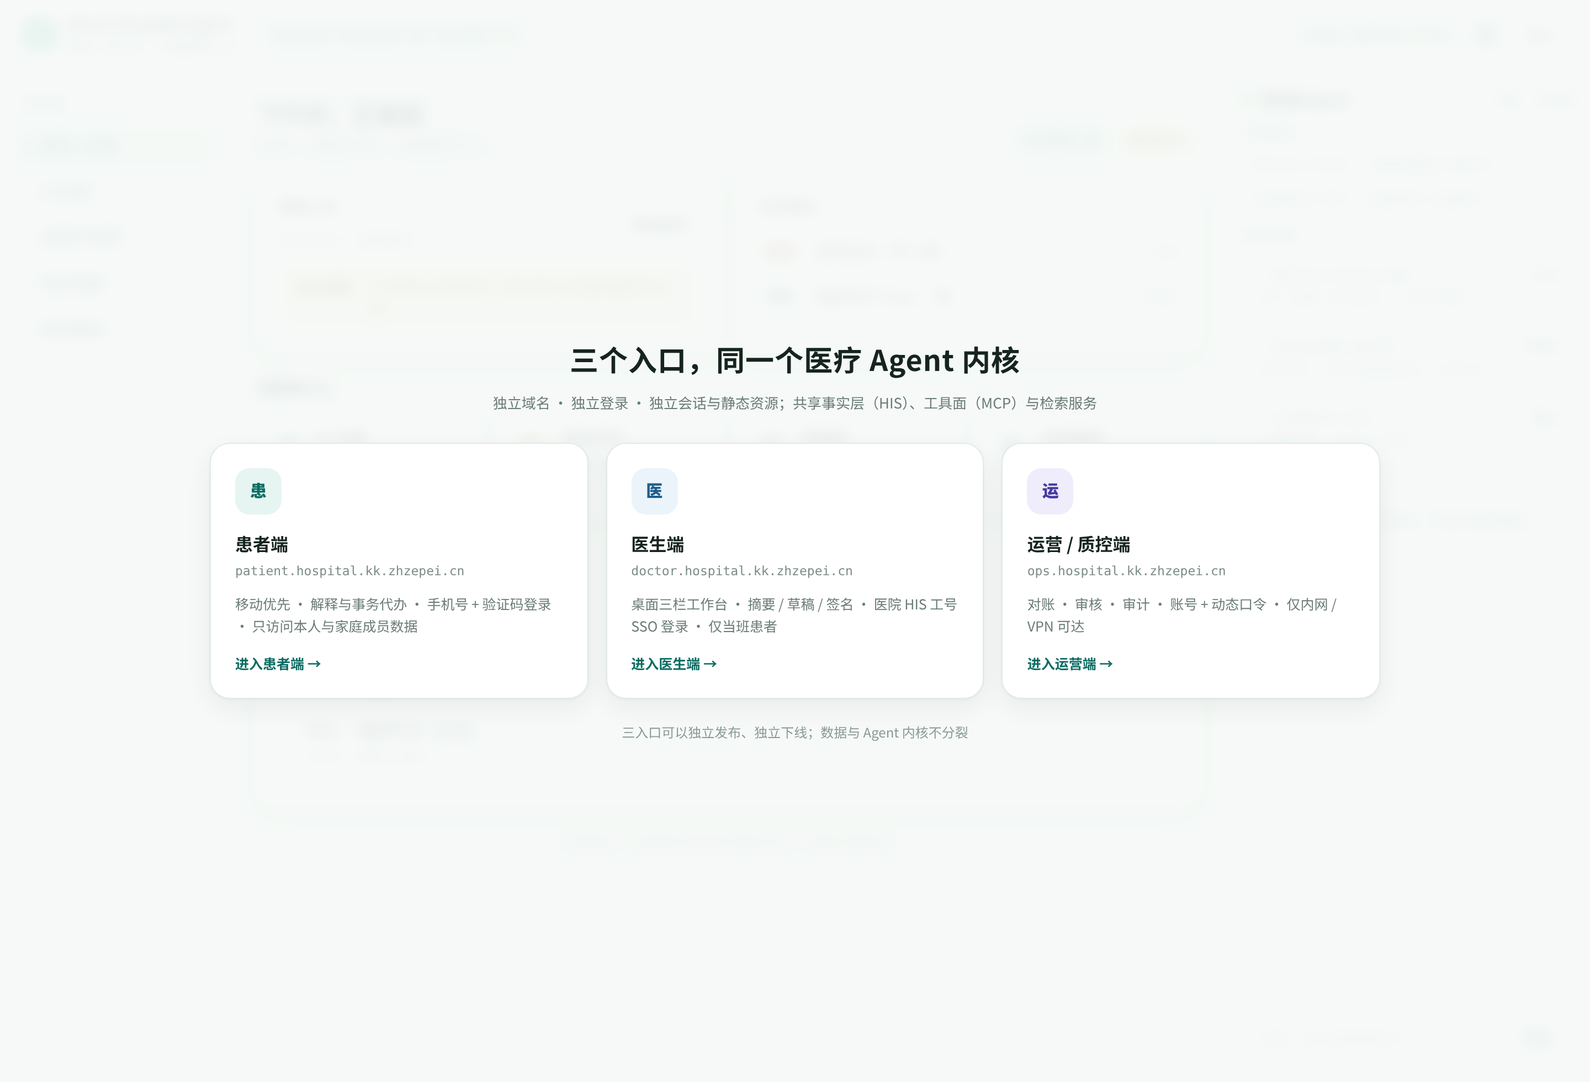
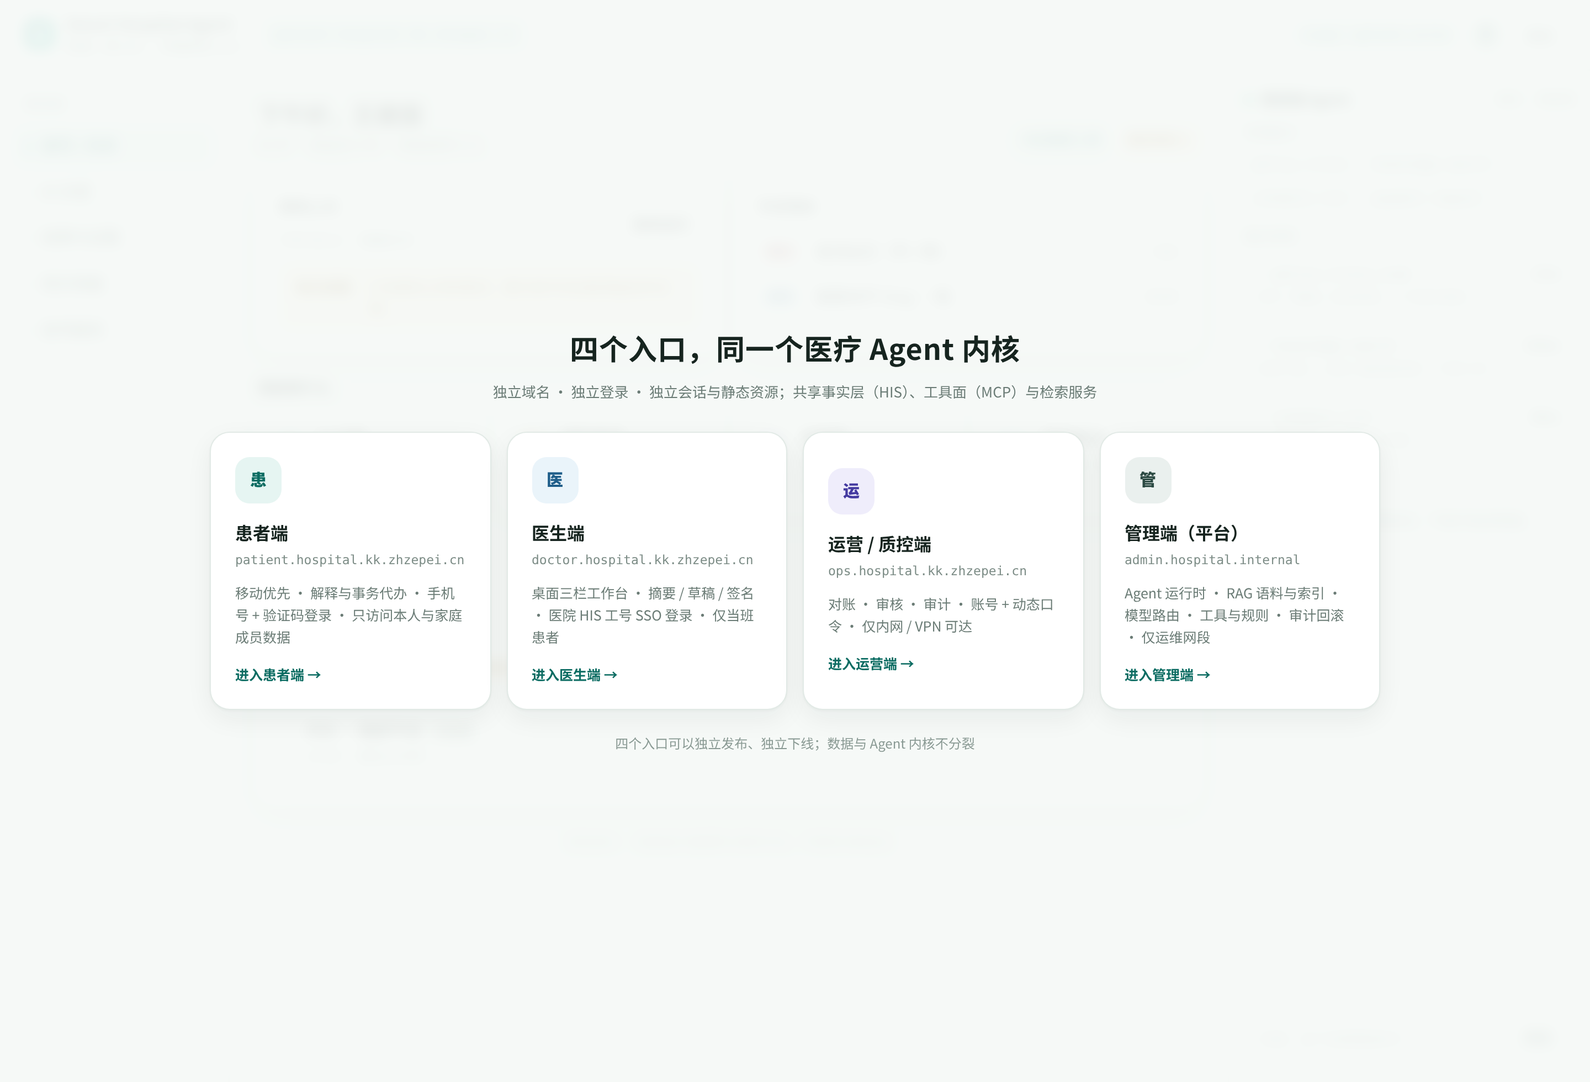
docs(prototype): add admin console (runtime, RAG, retrieval debug, config audit)

diff --git a/prototype/dual-end.html b/prototype/dual-end.html
@@ -176,7 +176,7 @@ tr:hover td{background:#FAFCFB}
 .entry-head{text-align:center;margin-bottom:26px}
 .entry-head h1{font-size:26px;margin:0 0 8px;letter-spacing:.02em}
 .entry-head p{margin:0;color:var(--muted);font-size:13px}
-.entry-cards{display:grid;grid-template-columns:repeat(3,1fr);gap:16px}
+.entry-cards{display:grid;grid-template-columns:repeat(4,1fr);gap:14px}
 .entry-card{border:1px solid var(--line);background:#fff;border-radius:18px;padding:22px;text-align:left;
   box-shadow:var(--shadow);transition:transform .15s ease,box-shadow .15s ease}
 .entry-card:hover{transform:translateY(-2px);box-shadow:0 12px 30px rgba(16,40,34,.10)}
@@ -204,7 +204,7 @@ tr:hover td{background:#FAFCFB}
 <header class="topbar">
   <div class="brand">
     <div class="logo">医</div>
-    <div>Smart Hospital Agent<small>双端 + 真 HIS · 界面原型 v0.1</small></div>
+    <div>Smart Hospital Agent<small>四端 + 真 HIS · 界面原型 v0.2</small></div>
   </div>
   <div class="entry-chip" id="entryChip">patient.hospital.kk.zhzepei.cn</div>
   <div class="who">
@@ -237,6 +237,14 @@ tr:hover td{background:#FAFCFB}
       <button class="nav active" data-screen="o-review"><span class="dot"></span>审核队列</button>
       <button class="nav" data-screen="o-recon"><span class="dot"></span>对账看板</button>
       <button class="nav" data-screen="o-audit"><span class="dot"></span>审计复盘</button>
+    </div>
+    <div class="sider-group" data-sider="admin">
+      <div class="sider-title">管理端（平台）</div>
+      <button class="nav active" data-screen="a-overview"><span class="dot"></span>运行总览</button>
+      <button class="nav" data-screen="a-agent"><span class="dot"></span>Agent 配置</button>
+      <button class="nav" data-screen="a-rag"><span class="dot"></span>语料与索引</button>
+      <button class="nav" data-screen="a-debug"><span class="dot"></span>检索调试</button>
+      <button class="nav" data-screen="a-audit"><span class="dot"></span>配置审计</button>
     </div>
   </aside>
 
@@ -747,6 +755,218 @@ tr:hover td{background:#FAFCFB}
       </div>
     </section>
 
+
+
+    <!-- ============ 管理端（平台） ============ -->
+    <section class="screen" id="a-overview">
+      <div class="page-head">
+        <div><h1>运行总览</h1><p>平台管理 · 仅运维网段可达 · 所有变更留痕</p></div>
+        <div class="right"><span class="badge teal">内核 v0.9.3</span><span class="badge amber">2 条告警</span></div>
+      </div>
+      <div class="grid g4" style="margin-bottom:14px">
+        <div class="card pad kpi"><div class="n">1,284</div><div class="l">今日会话</div></div>
+        <div class="card pad kpi"><div class="n">99.4%</div><div class="l">工具调用成功率</div></div>
+        <div class="card pad kpi"><div class="n">1.8s</div><div class="l">首 token P95</div></div>
+        <div class="card pad kpi"><div class="n">¥12.40</div><div class="l">今日模型成本</div></div>
+      </div>
+      <div class="grid" style="grid-template-columns:1fr 380px;align-items:start">
+        <div class="card">
+          <div class="pad"><div class="h2">组件状态</div></div>
+          <table>
+            <thead><tr><th>组件</th><th>版本 / 标识</th><th>状态</th><th>最近心跳</th></tr></thead>
+            <tbody>
+              <tr><td>Agent 内核</td><td>v0.9.3 · 单循环</td><td><span class="badge teal">健康</span></td><td>刚刚</td></tr>
+              <tr><td>模型网关</td><td>目录 #8812 · 3 provider</td><td><span class="badge teal">健康</span></td><td>12 秒前</td></tr>
+              <tr><td>RAG 索引</td><td>#2026-11-10.3 · 527 篇</td><td><span class="badge amber">召回率下降 7%</span></td><td>1 分钟前</td></tr>
+              <tr><td>MCP Adapter</td><td>OpenHIS · 22 工具</td><td><span class="badge teal">健康</span></td><td>3 秒前</td></tr>
+              <tr><td>同步与对账</td><td>游标 #184,203 · 每 30s</td><td><span class="badge amber">2 条差异待处理</span></td><td>12 秒前</td></tr>
+            </tbody>
+          </table>
+        </div>
+        <div class="card pad">
+          <div class="h2">告警</div>
+          <div class="alert amber" style="margin-bottom:8px"><b>检索</b><span>心血管内科召回率 0.78 → 0.71（近 24h）</span></div>
+          <div class="alert rose"><b>语料</b><span>5 个科室 0 文档：精准药剂科 / 内分泌 / 普通外科 / 急诊 / 康复</span></div>
+          <div class="divider"></div>
+          <div class="h2">当前生效配置快照</div>
+          <div class="kv">
+            <dt>Prompt 集</dt><dd>#2026-11-10 · triage v12</dd>
+            <dt>规则集</dt><dd>危机 v5 · DDI v3 · 危急值 v2</dd>
+            <dt>索引</dt><dd>#2026-11-10.3</dd>
+            <dt>模型目录</dt><dd>#8812</dd>
+          </div>
+          <div class="hint" style="margin-top:8px">任何配置变更都会生成新快照，可按快照回放历史会话。</div>
+        </div>
+      </div>
+    </section>
+
+    <section class="screen" id="a-agent">
+      <div class="page-head">
+        <div><h1>Agent 配置</h1><p>模型路由 · 工具授权 · Prompt 版本 · 护栏参数</p></div>
+        <div class="right"><span class="badge amber">待发布 1 项变更</span><button class="btn sm">回滚</button><button class="btn sm primary">发布（需审批）</button></div>
+      </div>
+
+      <div class="card" style="margin-bottom:14px">
+        <div class="pad"><div class="h2">模型路由</div></div>
+        <table>
+          <thead><tr><th>任务</th><th>主模型</th><th>温度</th><th>超时 / 重试</th><th>降级</th><th>当前</th></tr></thead>
+          <tbody>
+            <tr><td>分诊 triage</td><td>deepseek-v4.1-flash</td><td>0.1</td><td>8s / 2</td><td>Qwen3-0.6B（无工具）</td><td><span class="badge teal">生效</span></td></tr>
+            <tr><td>诊断 diagnosis</td><td>deepseek-v4.1-flash</td><td>0.2</td><td>20s / 1</td><td>同主模型重试一次</td><td><span class="badge teal">生效</span></td></tr>
+            <tr><td>报告解读</td><td>deepseek-v4.1-flash（视觉）</td><td>0.1</td><td>30s / 1</td><td>降级到文本说明</td><td><span class="badge amber">灰度 20%</span></td></tr>
+            <tr><td>摘要 summary</td><td>本地 Qwen3-8B</td><td>0.0</td><td>5s / 2</td><td>云端小模型</td><td><span class="badge teal">生效</span></td></tr>
+          </tbody>
+        </table>
+      </div>
+
+      <div class="grid g2" style="margin-bottom:14px">
+        <div class="card pad">
+          <div class="h2">工具授权矩阵</div>
+          <div class="kv">
+            <dt>患者端</dt><dd>9 个工具 · 事务写 · 无临床写</dd>
+            <dt>医生端</dt><dd>12 个工具 · 临床写需签名</dd>
+            <dt>运营端</dt><dd>3 个工具 · 审批与对账</dd>
+            <dt>管理端</dt><dd>4 个工具 · 只读 + 需审批的执行</dd>
+          </div>
+          <div class="divider"></div>
+          <div class="tiny muted">越权调用在网关层拦截，并写入安全审计。</div>
+        </div>
+        <div class="card pad">
+          <div class="h2">护栏与阈值</div>
+          <div class="kv">
+            <dt>引用门槛</dt><dd>0.20（患者端） / 0.35（医生端）</dd>
+            <dt>危机规则</dt><dd>v5 · 否定/既往史消歧开启</dd>
+            <dt>输出门禁</dt><dd>确诊 / 处方 / 剂量 关键词拦截</dd>
+            <dt>HITL</dt><dd>临床写全部需签名</dd>
+          </div>
+        </div>
+      </div>
+
+      <div class="card pad">
+        <div class="between"><div class="h2" style="margin:0">Prompt 版本与灰度</div><span class="badge">4 个 prompt 集</span></div>
+        <table style="margin-top:8px">
+          <thead><tr><th>用途</th><th>版本</th><th>状态</th><th>最近变更</th><th></th></tr></thead>
+          <tbody>
+            <tr><td>分诊 triage</td><td>v12</td><td><span class="badge teal">全量</span></td><td>11-09 · 加入红旗即时升级</td><td><button class="btn sm">对比</button></td></tr>
+            <tr><td>医生摘要</td><td>v3 → v4</td><td><span class="badge amber">灰度 20%</span></td><td>今天 · 增加来源角标</td><td><button class="btn sm">对比</button></td></tr>
+            <tr><td>报告解读</td><td>v7</td><td><span class="badge teal">全量</span></td><td>11-08</td><td><button class="btn sm">对比</button></td></tr>
+          </tbody>
+        </table>
+      </div>
+    </section>
+
+    <section class="screen" id="a-rag">
+      <div class="page-head">
+        <div><h1>语料与索引</h1><p>来源 · 许可 · 证据等级 · 入库流水线</p></div>
+        <div class="right"><button class="btn sm">重建索引</button><button class="btn sm primary">上传语料</button></div>
+      </div>
+      <div class="grid g4" style="margin-bottom:14px">
+        <div class="card pad kpi"><div class="n">527</div><div class="l">已发布文档</div></div>
+        <div class="card pad kpi"><div class="n">16 / 21</div><div class="l">科室覆盖率</div></div>
+        <div class="card pad kpi"><div class="n" style="color:#C77A15">2.1%</div><div class="l">重复率（待清理 11 篇）</div></div>
+        <div class="card pad kpi"><div class="n">#11.10.3</div><div class="l">当前索引版本</div></div>
+      </div>
+
+      <div class="card pad" style="margin-bottom:14px">
+        <div class="between"><div class="h2" style="margin:0">入库流水线</div><span class="badge">今日处理 34 篇</span></div>
+        <div class="row" style="gap:18px;margin-top:12px">
+          <div class="step done"><span class="n">1</span>上传 34</div>
+          <div class="step done"><span class="n">2</span>解析 33</div>
+          <div class="step done"><span class="n">3</span>切片 33</div>
+          <div class="step on"><span class="n">4</span>向量化 30</div>
+          <div class="step"><span class="n">5</span>索引 30</div>
+          <div class="step"><span class="n">6</span>发布 30</div>
+        </div>
+        <div class="alert amber" style="margin-top:12px"><b>阻塞</b><span>3 篇解析失败（扫描版 PDF 无文本层）· <b>2 篇许可未标注</b>，禁止发布</span></div>
+      </div>
+
+      <div class="card">
+        <table>
+          <thead><tr><th>文档</th><th>来源 / 许可</th><th>科室</th><th>证据等级</th><th>状态</th><th>引用次数</th></tr></thead>
+          <tbody>
+            <tr><td>稳定性冠心病诊断与治疗指南（2023）</td><td>中华医学会 · 内部授权</td><td>心血管内科</td><td>A</td><td><span class="badge teal">已发布</span></td><td>128</td></tr>
+            <tr><td>胸痛中心急诊分诊共识</td><td>胸痛中心 · 内部授权</td><td>急诊</td><td>B</td><td><span class="badge teal">已发布</span></td><td>86</td></tr>
+            <tr><td>高血压患者心血管风险评估</td><td>院内知识库 · 自有</td><td>心血管内科</td><td>C</td><td><span class="badge teal">已发布</span></td><td>41</td></tr>
+            <tr><td>MSD 诊疗手册（节选）</td><td>外部版权 · <b>仅限内部</b></td><td>多科室</td><td>B</td><td><span class="badge rose">禁止对外发布</span></td><td>0</td></tr>
+          </tbody>
+        </table>
+      </div>
+      <div class="hint" style="margin-top:10px">许可字段是硬门槛：未标注许可或仅限内部的语料，不会进入对外问答；院内使用单独标记。</div>
+    </section>
+
+    <section class="screen" id="a-debug">
+      <div class="page-head">
+        <div><h1>检索调试</h1><p>同一个检索接口，按端策略返回证据包</p></div>
+        <div class="right"><span class="badge">知识库 knowledge.search</span></div>
+      </div>
+      <div class="card pad" style="margin-bottom:14px">
+        <div class="field"><label>Query</label><div class="input">胸痛 30 分钟 活动后 压榨性<span class="cursor"></span></div></div>
+        <div class="chips">
+          <span class="chip sel">科室：心血管内科</span><span class="chip">top_k 8</span>
+          <span class="chip">门槛 0.20（患者端）</span><span class="chip">重排：Qwen3-Reranker</span>
+        </div>
+      </div>
+      <div class="grid" style="grid-template-columns:1fr 320px;align-items:start">
+        <div class="card">
+          <table>
+            <thead><tr><th>#</th><th>文档片段</th><th>来源</th><th>相关度</th><th>结果</th></tr></thead>
+            <tbody>
+              <tr><td>1</td><td>典型心绞痛表现为胸骨后压榨性疼痛，常由体力活动诱发…</td><td>指南 2023</td><td><b>0.82</b></td><td><span class="badge teal">引用</span></td></tr>
+              <tr><td>2</td><td>持续 20 分钟以上不缓解的胸痛应按高危处理…</td><td>胸痛共识</td><td><b>0.71</b></td><td><span class="badge teal">引用</span></td></tr>
+              <tr><td>3</td><td>高血压病程超过 5 年者，出现活动后胸痛应优先排查…</td><td>院内知识库</td><td><b>0.44</b></td><td><span class="badge teal">引用</span></td></tr>
+              <tr><td>4</td><td>心电图的适应证与禁忌证…</td><td>操作规范</td><td>0.19</td><td><span class="badge">低于门槛</span></td></tr>
+              <tr><td>5</td><td>患者问答：我胸痛要紧吗（重复 3 条）</td><td>历史问答</td><td>0.17</td><td><span class="badge rose">重复 + 低质</span></td></tr>
+            </tbody>
+          </table>
+        </div>
+        <div class="card pad">
+          <div class="h2">本轮结果</div>
+          <div class="kv">
+            <dt>召回</dt><dd>8 条（向量 6 / BM25 4，去重后 8）</dd>
+            <dt>重排后</dt><dd>5 条</dd>
+            <dt>过门槛</dt><dd>3 条</dd>
+            <dt>被过滤</dt><dd>3 条（低相关 2 / 重复 1）</dd>
+          </div>
+          <div class="divider"></div>
+          <div class="alert teal"><b>结论</b><span>证据足够，可回答；引用 3 条，其中院内知识库 1 条需标注来源等级 C。</span></div>
+          <div class="hint" style="margin-top:8px">同一 query 切到医生端策略，门槛升到 0.35，只保留 2 条。</div>
+        </div>
+      </div>
+    </section>
+
+    <section class="screen" id="a-audit">
+      <div class="page-head">
+        <div><h1>配置审计</h1><p>谁改了什么 · 双人审批 · 一键回滚</p></div>
+        <div class="right"><button class="btn sm">导出</button></div>
+      </div>
+      <div class="card" style="margin-bottom:14px">
+        <table>
+          <thead><tr><th>时间</th><th>操作人</th><th>对象</th><th>变更</th><th>审批</th><th></th></tr></thead>
+          <tbody>
+            <tr><td>今天 10:12</td><td>admin_zhang</td><td>prompt:doctor-summary</td><td>v3 → v4（来源角标）</td><td><span class="badge teal">已审批</span></td><td><button class="btn sm">回滚</button></td></tr>
+            <tr><td>今天 09:40</td><td>admin_li</td><td>rag:index</td><td>重建 #11.10.2 → #11.10.3</td><td><span class="badge teal">已审批</span></td><td><button class="btn sm">回滚</button></td></tr>
+            <tr><td>昨天 18:22</td><td>admin_zhang</td><td>rule:crisis</td><td>v4 → v5（否定词消歧）</td><td><span class="badge">单人（低风险）</span></td><td><button class="btn sm">回滚</button></td></tr>
+            <tr><td>昨天 15:07</td><td>admin_li</td><td>model:report</td><td>温度 0.2 → 0.1</td><td><span class="badge amber">驳回</span></td><td><button class="btn sm">查看</button></td></tr>
+          </tbody>
+        </table>
+      </div>
+      <div class="grid g2">
+        <div class="card pad">
+          <div class="h2">变更 diff（prompt:doctor-summary v3 → v4）</div>
+          <div class="draft" style="margin-bottom:8px"><b>+ 新增</b><br>每条结论后追加来源角标：[HIS] / [预问诊] / [指南]</div>
+          <div class="draft" style="margin-bottom:8px"><b>- 删除</b><br>「建议优先考虑急性冠脉综合征」（表述过强，改为"需排除"）</div>
+          <div class="draft"><b>影响范围</b><br>医生端诊前摘要 · 灰度 20% · 可 1 分钟回滚</div>
+        </div>
+        <div class="card pad">
+          <div class="h2">审批规则</div>
+          <div class="list-card" style="border-top:0;padding:8px 0"><span class="badge teal">双人</span><div class="grow">涉及临床输出（prompt / 规则 / 阈值）</div></div>
+          <div class="list-card" style="padding:8px 0"><span class="badge">单人</span><div class="grow">模型路由、超时、重试</div></div>
+          <div class="list-card" style="padding:8px 0"><span class="badge rose">禁止</span><div class="grow">直接改数据库、绕过网关调用</div></div>
+          <div class="divider"></div>
+          <div class="tiny muted">管理端看不到患者明细：会话回放默认脱敏，需额外授权且留痕。</div>
+        </div>
+      </div>
+    </section>
   </main>
 
   <aside class="agent">
@@ -792,13 +1012,27 @@ tr:hover td{background:#FAFCFB}
       <div class="agent-compose"><div class="box"><span>问我：今天有哪些差异没处理？</span><span class="badge">发送</span></div></div>
     </div>
 
+    <div class="agent-panel" data-agent="admin">
+      <div class="agent-head"><span class="dot-live"></span><span class="agent-title">平台 Agent</span><span class="agent-sub">运维助手 · 只读建议</span></div>
+      <div class="agent-sec"><div class="h">可用能力</div>
+        <div class="toolchips"><span>runtime.status</span><span>config.diff</span><span>rag.inspect</span><span>trace.replay</span></div></div>
+      <div class="agent-sec"><div class="h">最近调用</div>
+        <div class="callog"><div class="t"><span class="ok">✓</span> rag.inspect <span style="margin-left:auto">210ms</span></div><div class="m">527 篇 · 重复 11 · 5 科室 0 文档</div></div>
+        <div class="callog"><div class="t"><span class="ok">✓</span> config.diff <span style="margin-left:auto">18ms</span></div><div class="m">triage v11 → v12 · 3 处改动</div></div>
+        <div class="callog"><div class="t"><span class="ok">✓</span> runtime.status <span style="margin-left:auto">5ms</span></div><div class="m">内核/网关/索引/adapter 四组件健康</div></div>
+      </div>
+      <div class="agent-sec"><div class="h">边界</div>
+        <div class="tiny muted">只能提建议与生成变更单；发布、回滚、重建索引都需人工审批；默认看不到患者明细。</div></div>
+      <div class="agent-compose"><div class="box"><span>问我：这次召回率下降是什么原因？</span><span class="badge">发送</span></div></div>
+    </div>
+
   </aside>
 </div>
 
 <div class="overlay on" id="entry">
   <div class="entry-wrap">
     <div class="entry-head">
-      <h1>三个入口，同一个医疗 Agent 内核</h1>
+      <h1>四个入口，同一个医疗 Agent 内核</h1>
       <p>独立域名 · 独立登录 · 独立会话与静态资源；共享事实层（HIS）、工具面（MCP）与检索服务</p>
     </div>
     <div class="entry-cards">
@@ -823,8 +1057,15 @@ tr:hover td{background:#FAFCFB}
         <p>对账 · 审核 · 审计 · 账号 + 动态口令 · 仅内网 / VPN 可达</p>
         <div class="go">进入运营端 →</div>
       </button>
+      <button class="entry-card" data-entry="admin">
+        <div class="ic" style="background:#EAF0EE;color:#2C4A43">管</div>
+        <h3>管理端（平台）</h3>
+        <div class="dom">admin.hospital.internal</div>
+        <p>Agent 运行时 · RAG 语料与索引 · 模型路由 · 工具与规则 · 审计回滚 · 仅运维网段</p>
+        <div class="go">进入管理端 →</div>
+      </button>
     </div>
-    <div class="entry-foot">三入口可以独立发布、独立下线；数据与 Agent 内核不分裂</div>
+    <div class="entry-foot">四个入口可以独立发布、独立下线；数据与 Agent 内核不分裂</div>
   </div>
 </div>
 
@@ -848,7 +1089,8 @@ tr:hover td{background:#FAFCFB}
 <script>
 var currentEnd = 'patient';
 var pendingEnd = 'patient';
-var scopeMap = { patient: 'scope: patient_write', doctor: 'scope: clinician_write', ops: 'scope: ops_write' };
+var scopeMap = { patient: 'scope: patient_write', doctor: 'scope: clinician_write', ops: 'scope: ops_write', admin: 'scope: admin_write' };
+var avatarMap = { patient: '王', doctor: '张', ops: '质', admin: '管' };
 var entryMeta = {
   patient: { domain: 'patient.hospital.kk.zhzepei.cn', title: '患者端登录', sub: '手机号 + 短信验证码',
     aLabel: '手机号', aValue: '138 0000 8001', pLabel: '验证码', pValue: '• • • • • •',
@@ -858,7 +1100,10 @@ var entryMeta = {
     note: '医生身份以 HIS 为准；登录后获得 HIS 会话，签名在 HIS 侧可验证；退出 HIS 即失效。' },
   ops: { domain: 'ops.hospital.kk.zhzepei.cn', title: '运营 / 质控端登录', sub: '账号 + 密码 + 动态口令（仅内网 / VPN）',
     aLabel: '账号', aValue: 'ops_zhang', pLabel: '密码', pValue: '••••••••',
-    note: '所有操作留痕；审批、导出、改密等危险操作需二次验证。' }
+    note: '所有操作留痕；审批、导出、改密等危险操作需二次验证。' },
+  admin: { domain: 'admin.hospital.internal', title: '管理端（平台）登录', sub: '运维账号 + 密码 + 动态口令 · 仅运维网段',
+    aLabel: '运维账号', aValue: 'admin_zhang', pLabel: '密码', pValue: '••••••••',
+    note: '管理端默认看不到患者明细；配置变更需双人审批，全部记录可回滚。' }
 };
 
 function showScreen(name) {
@@ -875,7 +1120,7 @@ function switchEnd(end) {
   var groups = document.querySelectorAll('.sider-group');
   for (var j = 0; j < groups.length; j++) { groups[j].classList.toggle('on', groups[j].getAttribute('data-sider') === end); }
   document.getElementById('scopeLabel').textContent = scopeMap[end];
-  document.getElementById('whoAvatar').textContent = end === 'patient' ? '王' : (end === 'doctor' ? '张' : '质');
+  document.getElementById('whoAvatar').textContent = avatarMap[end];
   document.getElementById('entryChip').textContent = entryMeta[end].domain;
   var first = document.querySelector('.sider-group[data-sider="' + end + '"] .nav');
   if (first) { showScreen(first.getAttribute('data-screen')); }
@@ -896,7 +1141,7 @@ function openLogin(end) {
   document.getElementById('loginAccount').textContent = m.aValue;
   document.getElementById('loginPwd').textContent = m.pValue;
   document.getElementById('loginNote').textContent = m.note;
-  document.getElementById('loginTotpField').style.display = end === 'ops' ? 'block' : 'none';
+  document.getElementById('loginTotpField').style.display = (end === 'ops' || end === 'admin') ? 'block' : 'none';
   document.getElementById('entry').classList.remove('on');
   document.getElementById('login').classList.add('on');
 }
